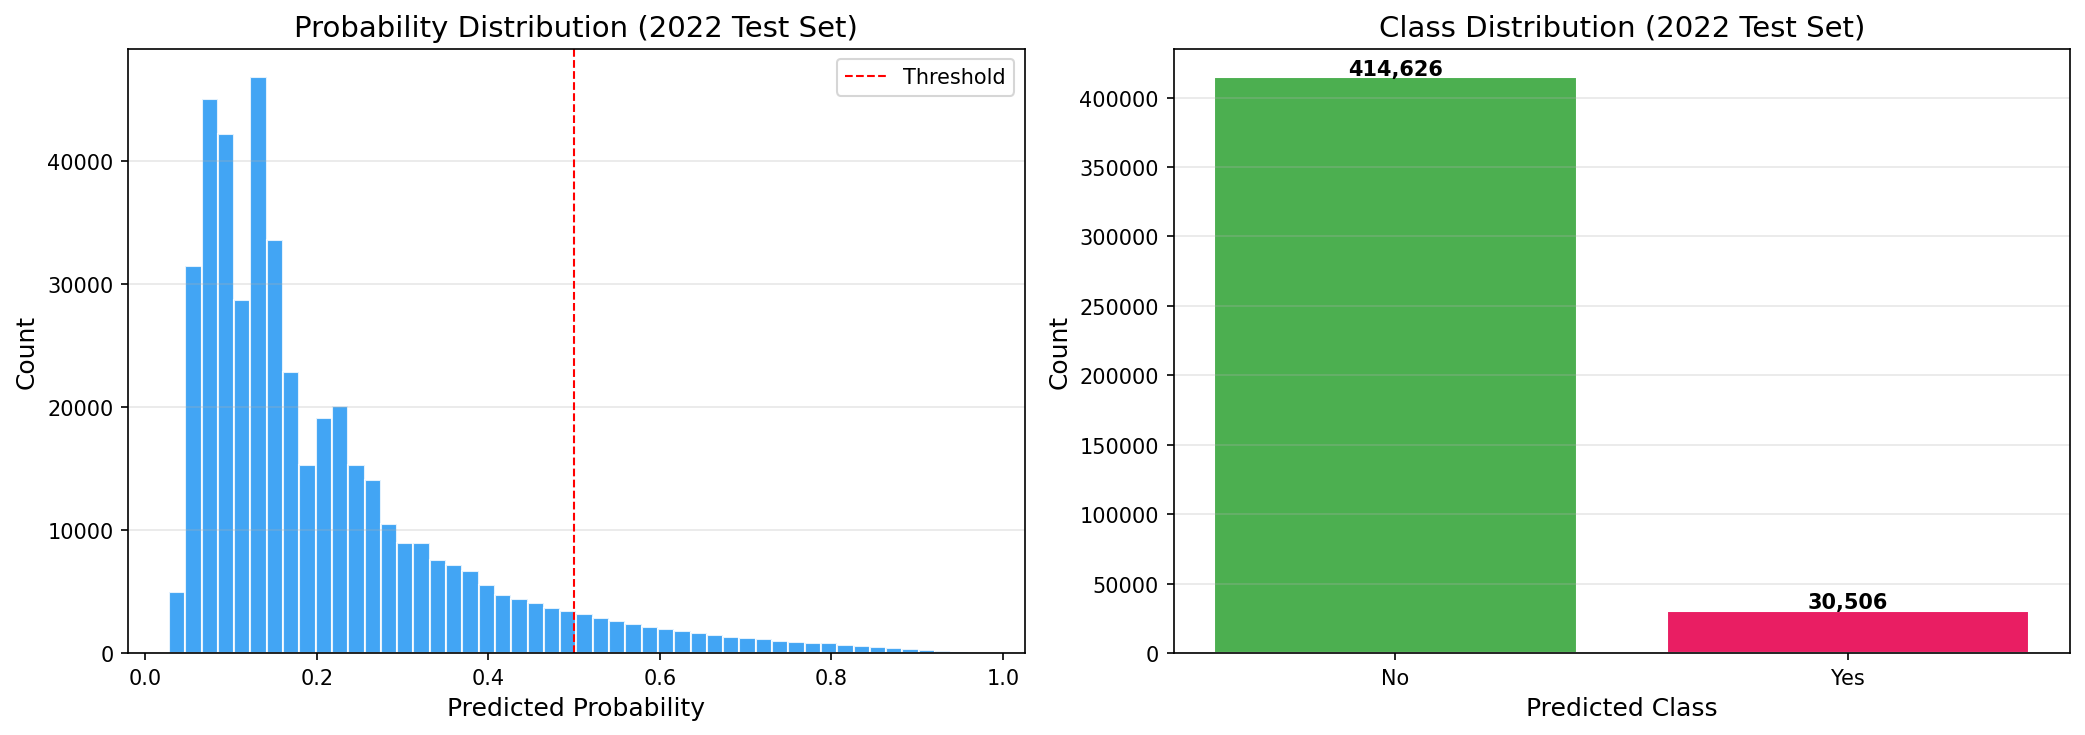
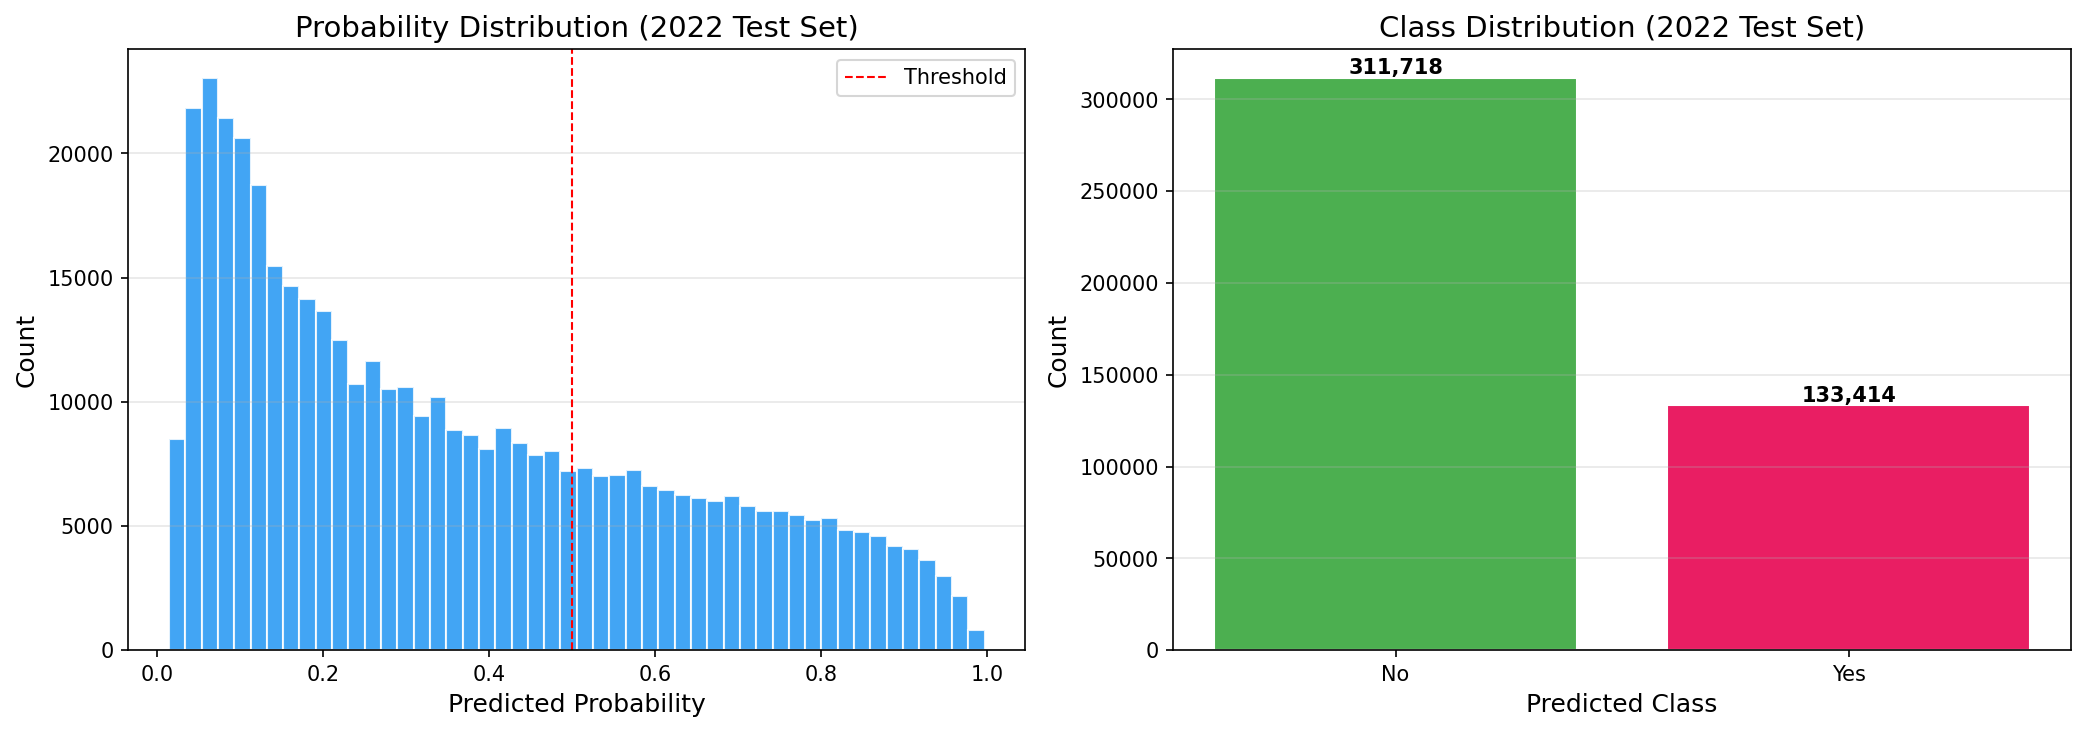
Add real out-of-sample validation on 2022 BRFSS labels
- Map 2022 category values (age, smoking, race, diabetes) to 2020 labels;
  previously every 2022 respondent was scored as age 18-24
- Encode test set without drop_first and reindex to training columns
- Score against HadHeartAttack OR HadAngina (matches 2020 target):
  ROC-AUC 0.836 on 440K respondents; precision at 0.5 drops to 0.23
  at 9% prevalence (calibration shift from 50/50 undersampling)
- Update README and conclusions with validation results

Claude-Session: https://claude.ai/code/session_01Ba3S4TsDTGW8LiMVYxkcX5

diff --git a/README.md b/README.md
@@ -1,6 +1,6 @@
 # Preventative Pulse — Predictive Analytics for Heart Disease
 
-A machine learning pipeline that predicts heart disease from CDC behavioral survey data, achieving **83.5% ROC-AUC** and **75.7% F1-score** using logistic regression with SMOTE oversampling. Built on 319K+ patient records from the 2020 BRFSS survey, then applied to 445K unseen records from the 2022 survey.
+A machine learning pipeline that predicts heart disease from CDC behavioral survey data, achieving **83.5% ROC-AUC** and **75.7% F1-score** using logistic regression with SMOTE oversampling. Built on 319K+ patient records from the 2020 BRFSS survey, then validated against labels on 440K unseen respondents from the 2022 survey (**ROC-AUC 0.836 out of sample**).
 
 ---
 
@@ -12,7 +12,7 @@ Six classifiers were evaluated using 5-fold stratified cross-validation with SMO
 
 ![Model Comparison](figures/model_comparison.png)
 
-**Final validation metrics (tuned logistic regression, 20% hold-out set):**
+**Final validation metrics (tuned logistic regression, 20% hold-out set, undersampled to 50/50):**
 
 | Metric | Score |
 |--------|-------|
@@ -21,6 +21,26 @@ Six classifiers were evaluated using 5-fold stratified cross-validation with SMO
 | Accuracy | 0.757 |
 | Precision (Yes) | 0.75 |
 | Recall (Yes) | 0.77 |
+
+Precision and F1 here are measured on a balanced sample. At real-world prevalence they are much lower (see below).
+
+### Out-of-Sample Validation (2022 BRFSS)
+
+The trained pipeline was applied to the 2022 survey wave and scored against its labels. The 2020 target is ever-reported coronary heart disease or heart attack, so the matching 2022 label is `HadHeartAttack` or `HadAngina`.
+
+| Metric | 2020 hold-out (50/50) | 2022 wave (9.0% prevalence) |
+|--------|------|------|
+| ROC-AUC | 0.835 | **0.836** |
+| Average precision | 0.818 | 0.349 |
+| Precision @ 0.5 | 0.75 | 0.23 |
+| Recall @ 0.5 | 0.77 | 0.77 |
+| Flagged positive @ 0.5 | 50% | 30% |
+
+![2022 ROC](figures/roc_2022_validation.png)
+
+Ranking held across survey waves. Calibration did not. The model was trained on undersampled 50/50 data, so a 0.5 cutoff assumes a 50% base rate, and on a population with 9% prevalence it flags 30% of people. Any screening use needs recalibration and a threshold chosen at real prevalence. Using `HadHeartAttack` alone as the label gives AUC 0.830.
+
+Getting a valid score required mapping category values, not just column names. The 2022 file relabels age (`Age 18 to 24`), smoking (four levels instead of yes/no), race, and diabetes. An earlier version of this notebook skipped that step, which silently scored every 2022 respondent as age 18 to 24, and it reported only the distribution of predictions without checking labels. Both are fixed.
 
 ### Top Risk Factors
 
@@ -53,8 +73,8 @@ The precision-recall curve (AP = 0.818) shows the model maintains >80% precision
 |--|----------------|-------------|
 | Records | 319,795 | 445,132 |
 | Features | 18 | 40 → aligned to 17 |
-| Target | HeartDisease (Yes/No) | Predicted |
-| Class balance | 91.4% No / 8.6% Yes | — |
+| Target | HeartDisease (Yes/No) | HadHeartAttack OR HadAngina |
+| Class balance | 91.4% No / 8.6% Yes | 91.0% No / 9.0% Yes |
 
 **Features span three domains:**
 - Medical history — diabetes, kidney disease, stroke, asthma, skin cancer
@@ -87,7 +107,8 @@ Raw Data (319K records, 18 columns)
   ├─ Tuning ──────────── RandomizedSearchCV on best model
   │                      (C=0.1, penalty=L2, solver=liblinear)
   │
-  └─ Prediction ──────── 445K test records → 31,089 predicted positive (7.0%)
+  └─ 2022 Validation ─── Map 2022 column names AND category values →
+                         score 440K labeled records → ROC-AUC 0.836
 ```
 
 ---
@@ -114,7 +135,7 @@ cd Preventative-Pulse
 pip install -r requirements.txt
 ```
 
-The 2022 test dataset (139 MB) is too large for GitHub. Download it from [Kaggle](https://www.kaggle.com/datasets/kamilpytlak/personal-key-indicators-of-heart-disease) and place the file in `data/heart_2022_with_nans.csv`. Sections 1–8 of the notebook run without it; only Section 9 (test-set predictions) requires it.
+The 2022 test dataset (139 MB) is too large for GitHub. Download it from [Kaggle](https://www.kaggle.com/datasets/kamilpytlak/personal-key-indicators-of-heart-disease) and place the file in `data/heart_2022_with_nans.csv`. Sections 1–8 of the notebook run without it; only Section 9 (2022 out-of-sample validation) requires it.
 
 ```bash
 jupyter notebook Preventative_Pulse.ipynb
